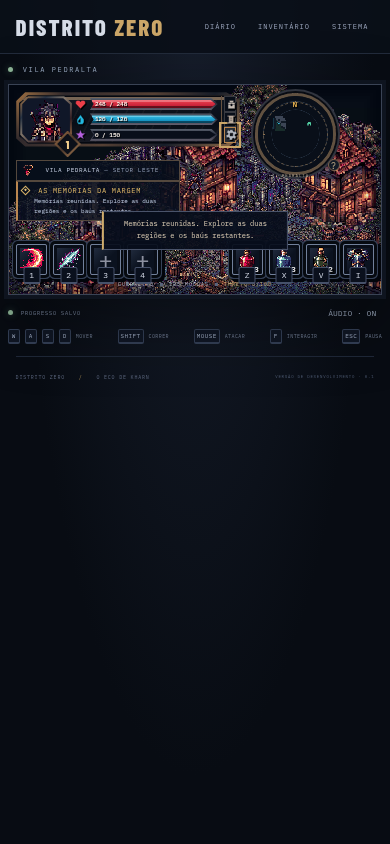
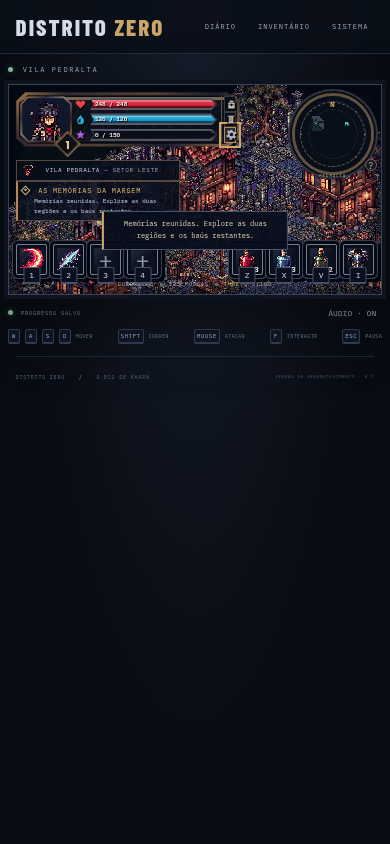
fix: restore fully circular minimap to upper right

Changed region(s): [[0.6462, 0.0924, 0.9846, 0.2156]]

diff --git a/tests/e2e/visibility.spec.ts b/tests/e2e/visibility.spec.ts
@@ -171,6 +171,33 @@ test("Movimento real atrás da casa, minimapa orientado e objetivo concluído se
   await page.getByRole("button", { name: "CONTINUAR JORNADA" }).click();
   const before = await page.evaluate(() => (window as any).__DZ.snapshot());
   expect(before.activeObjective).toBeNull();
+  const checkMinimap = async () => {
+    const geometry = await page.locator(".minimap-box").evaluate((el) => {
+      const box = el.getBoundingClientRect();
+      const viewport = document
+        .querySelector(".game-viewport")!
+        .getBoundingClientRect();
+      const canvas = el.querySelector("canvas")!.getBoundingClientRect();
+      return {
+        width: box.width,
+        height: box.height,
+        canvasWidth: canvas.width,
+        canvasHeight: canvas.height,
+        right: (viewport.right - box.right) / viewport.width,
+        top: (box.top - viewport.top) / viewport.height,
+        radius: getComputedStyle(el).borderRadius,
+      };
+    });
+    expect(Math.abs(geometry.width - geometry.height)).toBeLessThan(1);
+    expect(Math.abs(geometry.canvasWidth - geometry.canvasHeight)).toBeLessThan(
+      1,
+    );
+    expect(geometry.right).toBeCloseTo(0.02, 2);
+    expect(geometry.top).toBeGreaterThan(0.03);
+    expect(geometry.top).toBeLessThan(0.05);
+    expect(geometry.radius).toBe("50%");
+  };
+  await checkMinimap();
   await page.keyboard.down("w");
   await page.waitForTimeout(240);
   await page.keyboard.up("w");
@@ -212,6 +239,7 @@ test("Movimento real atrás da casa, minimapa orientado e objetivo concluído se
   });
   await page.setViewportSize({ width: 390, height: 844 });
   await page.waitForTimeout(200);
+  await checkMinimap();
   expect(
     await page.evaluate(() => document.documentElement.scrollWidth),
   ).toBeLessThanOrEqual(390);

diff --git a/src/style.css b/src/style.css
@@ -3413,12 +3413,13 @@ h1 > span {
   border-left-color: #ba8750;
 }
 .minimap-box {
-  left: 39.5%;
-  right: auto;
+  left: auto;
+  right: 2%;
   top: 3.5%;
-  width: 12%;
+  width: 14.5%;
   min-width: 0;
   aspect-ratio: 1;
+  box-sizing: border-box;
   border-radius: 50%;
   border: 3px solid #615140;
   background: radial-gradient(#182332, #080e18 72%);
@@ -3437,6 +3438,8 @@ h1 > span {
   z-index: 1;
 }
 .minimap-box canvas {
+  position: absolute;
+  inset: 0;
   width: 100%;
   height: 100%;
   border-radius: 50%;
@@ -3500,8 +3503,9 @@ h1 > span {
 }
 .map-legend {
   position: absolute;
-  left: 24px;
-  top: -8px;
+  left: auto;
+  right: 0;
+  top: 24px;
   width: 190px;
   padding: 14px;
   display: flex;
@@ -3581,7 +3585,8 @@ h1 > span {
     font-size: 12px;
   }
   .minimap-box {
-    left: 66%;
+    left: auto;
+    right: 2%;
     width: 22%;
     top: 4%;
   }

diff --git a/docs/HUD_REFERENCIA.md b/docs/HUD_REFERENCIA.md
@@ -16,6 +16,8 @@ Regressão aprovada: `npm test` passou com **83 testes**, `npm run test:e2e` pas
 
 Capturas: `artifacts/hud-reference.png` e `artifacts/hud-reference-mobile.png`.
 
+Ajuste posterior solicitado: minimapa restaurado ao canto superior direito, a 2% da borda direita. A moldura e o canvas mantêm proporção 1:1 em desktop e celular, formando um círculo completo. A legenda abre abaixo do botão para permitir fechá-la sem sobreposição. Os cinco cenários de visibilidade passaram novamente, incluindo verificações geométricas do círculo e de sua posição, e o build foi aprovado.
+
 ## Limites
 
 O retrato usa os sprites atuais, não o desenho de perfil novo da imagem enviada. O acabamento da moldura é criado com CSS, e os pictogramas são vetoriais com formas angulares, sem um novo atlas de interface desenhado à mão. A legenda exemplifica objetivo secundário e chefe, mas a campanha existente continua com um objetivo principal ativo e os encontros já implementados.
